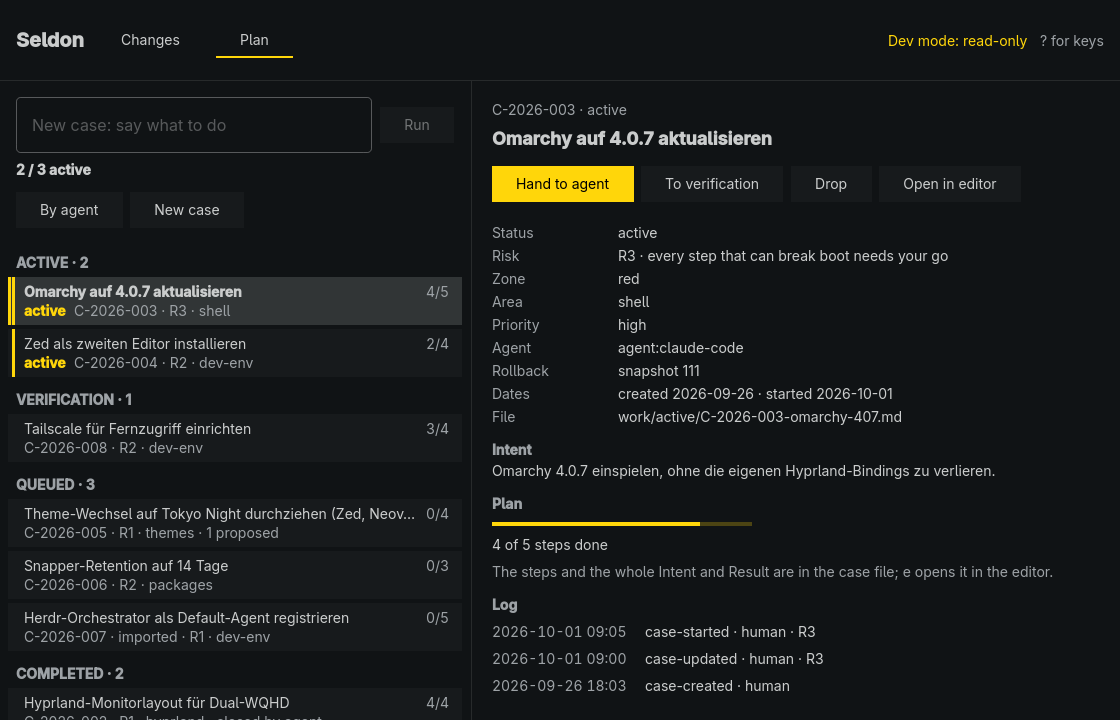
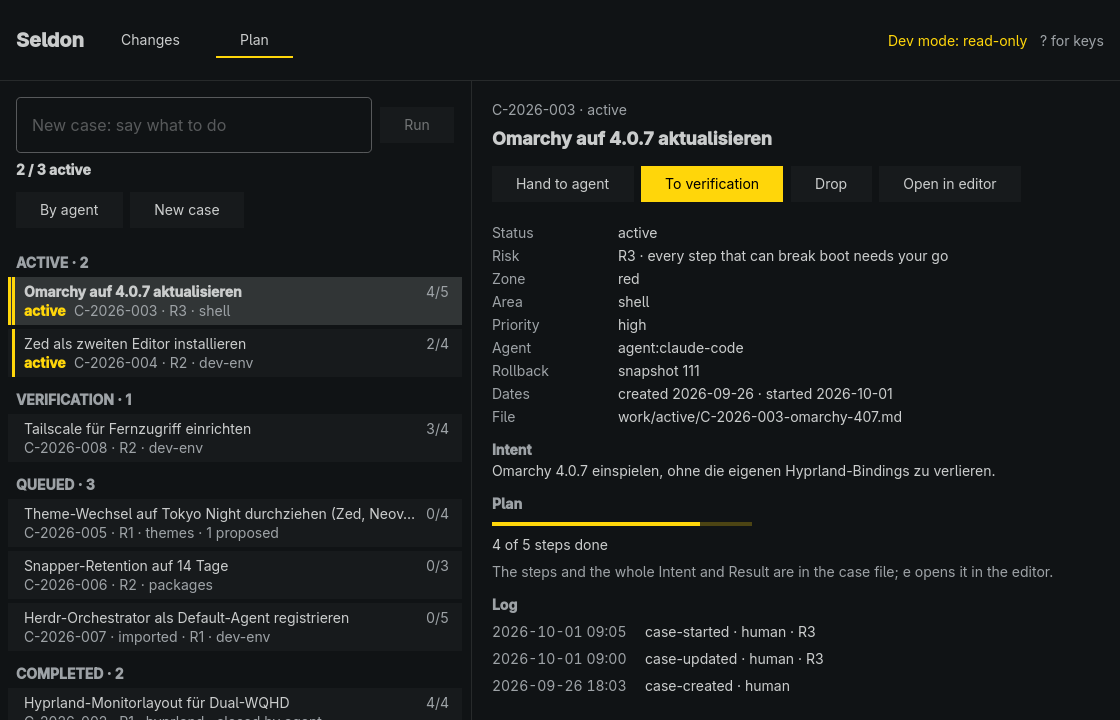
app: tests keep the fields' focus through a refusal; README and handover for review 1 (WP-232)

Changed region(s): [[0.4375, 0.2139, 0.7188, 0.3056]]

diff --git a/app/tests/seldon-desk_tests.cpp b/app/tests/seldon-desk_tests.cpp
@@ -1509,6 +1509,11 @@ private slots:
         QCOMPARE(acts(dir), QStringList{"plan new --zone yellow --risk R1 --json -- Snapshots weekly"});
         QVERIFY(plan->property("formOpen").toBool());
         QCOMPARE(find(window.get(), "newCaseTitle")->property("text").toString(), QString("Snapshots weekly"));
+        // The field kept the keys through the call: typing on goes on into it.
+        QVERIFY(area->hasActiveFocus());
+        QTest::keyClick(window->window, 'z');
+        QCOMPARE(area->property("text").toString(), QString("z"));
+        QTest::keyClick(window->window, Qt::Key_Backspace);
 
         QTest::keyClick(window->window, Qt::Key_Escape);
         QTest::keyClick(window->window, Qt::Key_Escape);
@@ -1521,6 +1526,7 @@ private slots:
         QTest::keyClick(window->window, Qt::Key_Return);
         QTRY_COMPARE(find(window.get(), "planResult")->property("text").toString(), QString("no default agent"));
         QCOMPARE(find(window.get(), "intentField")->property("text").toString(), QString("Fix it"));
+        QVERIFY(find(window.get(), "intentField")->hasActiveFocus());
         // The form's draft is still there.
         QTest::keyClick(window->window, Qt::Key_Escape);
         QTest::keyClick(window->window, 'n');

diff --git a/work/active/WP-232/HANDOVER.md b/work/active/WP-232/HANDOVER.md
@@ -68,16 +68,65 @@ Branch `wp/232-app-plan` (off `app`). Not pushed.
   header now has the tabs): fixture, dev mode, default accent, empty theme.
 - `app/README.md`: the Plan view, a keys table per view, the screenshot.
 
+## Review round 1 (SEND BACK) — what changed
+
+1. **B1, a held key never confirms** (SPEC-PLUGIN §5.3, WP-173), in both
+   views since `Main.qml` is shared: every Shortcut that presses has
+   `autoRepeat: false` (Return/Enter, Space, `a x r e i n b`, `/`, `1`,
+   `2`, `?`, `Q`); only moving keys (↑/↓, j/k, f/F) repeat. No field acts on
+   `accepted`: the New case title and area, the sentence field and
+   Changes' reason field press from `Keys.onReturnPressed`/`onEnterPressed`
+   only when `!event.isAutoRepeat` (the search field moves focus the same
+   way). Tests: the reviewer's `reviewAutoRepeatDrop` and
+   `reviewAutoRepeatEnterCreate`, plus `planHeldKeyNeverConfirms` (Space,
+   `r`, Return in the sentence) and `changesHeldKeyNeverConfirms` (Return
+   held on the case picker and in the reason field; a second press of its
+   own still runs).
+2. **B2a, no case keys behind the form.** While the New case form is open,
+   `a x r e` do nothing (`PlanView.key`). Test `reviewKeysBehindTheForm`.
+3. **B2b, no act under an ask.** `win.asking` (the `?` overlay or the quit
+   question) turns off Enter, Space and every view key. Tests
+   `reviewEnterUnderHelp`, `noActWhileTheQuitAskShows`.
+4. **N1, an arriving index never closes a form.** A first index with cases
+   selects its first case without touching `formOpen`; a form that closes
+   gives its keys back to the list (no hidden field keeps typing). The
+   Plan fields are read-only, not disabled, while a call runs, so they keep
+   the keys through it. Tests `reviewFormClosesOnFirstIndex`,
+   `reviewFocusLostAfterRefusal`, and `refusalsKeepTheTitle` now checks
+   that the area field and the sentence field keep the focus after a
+   refusal.
+5. **N2, the missing tests.** `reviewViewSwitchDisarms` (Plan, outside dev
+   mode) and `changesViewSwitchDisarms` (Changes: an armed link is
+   disarmed by a view change, and the next press arms again, nothing
+   runs); `engineErrorsArePlainText` feeds engine refusals with `<font …>`
+   into `planResult` and `newCaseError` and checks both are plain.
+6. **N4, the filled button is the act Enter takes** (`modelData.enter`):
+   To verification on an active case, never Hand to agent;
+   `startVerifyComplete` checks it. `docs/images/app-plan.png` refreshed.
+
+Decisions taken from the orchestrator: the wider arming stays (Reopen, New
+case and Run press twice); `--again` stays terminal-only (WP-231's list).
+
+Mutants on the round-1 code, each reverted: letters repeating →
+`reviewAutoRepeatDrop` fails; Enter without `asking` →
+`reviewEnterUnderHelp` and `noActWhileTheQuitAskShows` fail; no form guard
+→ `reviewKeysBehindTheForm` fails; the reason field pressing on a repeat →
+`changesHeldKeyNeverConfirms` fails; the filled button by `primary` →
+`startVerifyComplete` fails. Survived: `enabled: !pending` in place of
+`readOnly: pending` on the Plan fields — equivalent on Qt 6.12, where a
+field disabled for the call keeps its active focus; `readOnly` stays as
+the form that does not depend on that.
+
 ## How it was verified
 
 | Check | Where | Result |
 |---|---|---|
-| `flock /tmp/seldon-check.lock app/bin/build`, clean rebuild (`app/build` removed first), Qt 6.12.0, `-Wall -Wextra` | headless (dev host; no window) | passed, 0 warnings |
-| `flock /tmp/seldon-check.lock app/bin/test`: 64 Qt Test cases (44 before + 20), offscreen, own `HOME`, private `XDG_RUNTIME_DIR` 0700, temp dirs on disk, a fake engine that records argv | headless | 64 passed |
+| `flock /tmp/seldon-check.lock app/bin/build`, clean rebuild (`app/build` removed first), Qt 6.12.0, `-Wall -Wextra`, round 1 | headless (dev host; no window) | passed, 0 warnings |
+| `flock /tmp/seldon-check.lock app/bin/test`, round 1: 76 Qt Test cases (44 of WP-228 + 20 of round 0 + the reviewer's 7 `review*` + 5 new), offscreen, own `HOME`, private `XDG_RUNTIME_DIR` 0700, temp dirs on disk, a fake engine that records argv | headless | 76 passed |
 | The new cases: `sessionsRunBesideTheQueue`, `germanCoversThePlanWords`, `planShowsTheFixture`, `planInGerman`, `viewSwitchAndKeys`, `startVerifyComplete` (exact argv of start, verify, done), `armedCaseFollowsTheIndex` (a case above leaves: still armed, runs the armed case; the armed case moves on: disarmed, nothing ran; another selection disarms), `dropAndHandToAgent` (`x x`; `a` then Enter arms To verification, never the agent; `a a`), `focusTheWorkingAgent`, `byAgentAndReopen`, `openInEditor`, `newCaseFromOneSentence`, `newCaseByHand` (exact `plan new` argv from the keys), `refusalsKeepTheTitle` (blank title, bad area, exit 4, agent refusal), `emptyListAndSearch`, `importedCaseStartIsOff`, `answerMatchesTheCall`, `devModePlanWritesNothing`, `planRichText`, `planGeometry` (720×480 in German: header parts inside the list column without overlap, the bar inside the detail, the form's choices inside the form, the `?` overlay's last key reachable); `allowsOnlyTheContractForms` extended (12 allowed, 23 refused forms) | headless | passed |
 | Every window test fails on any QML warning (the message handler), in `en` and `de` (`planInGerman`, `planGeometry`) | headless | none |
 | Mutants on the new code, each reverted: no `built` watch → `armedCaseFollowsTheIndex` fails; answer not matched to its argv → `answerMatchesTheCall` fails; a refused New case closes and resets → `refusalsKeepTheTitle` fails; Enter takes the first act (the agent) → `dropAndHandToAgent` fails; the imported-case guard removed → `importedCaseStartIsOff` fails; a row title not plain → `planRichText` fails; the list column filling (Qt's layout default) → `planGeometry` fails. Survived: resetting the form even when the title changed meanwhile — equivalent, the fields are disabled while the call runs | headless | 7 killed, 1 equivalent |
-| `QT_FORCE_STDERR_LOGGING=1` offscreen runs of `app/build/seldon-desk` (`env -i`, `PATH=/usr/bin` without `seldon`, private `HOME` and `XDG_RUNTIME_DIR` 0700 under `app/build/smoke/`, removed after): fixture dev mode `en`, fixture dev mode `de`, no index and no engine | headless | no output on stderr in any run. These start on Changes; Plan is loaded beside it, and shown it is covered by the window tests above |
+| `QT_FORCE_STDERR_LOGGING=1` offscreen runs of `app/build/seldon-desk`, again in round 1 (`env -i`, `PATH=/usr/bin` without `seldon`, private `HOME` and `XDG_RUNTIME_DIR` 0700 under `app/build/smoke/`, removed after): fixture dev mode `en`, fixture dev mode `de`, no index and no engine | headless | no output on stderr in any run. These start on Changes; Plan is loaded beside it, and shown it is covered by the window tests above |
 | `docs/images/app-plan.png`, `app-changes.png` from the test harness | fixture | — |
 | No symlink under `app/`, no `qs.*` import, no hex colour in `app/src`, `app/bin`, the `.pro` outside `theme.cpp`'s fallbacks | fixture (grep, find) | passed |
 | Shell scripts | not run | none added or changed (`bin/build`, `bin/test` untouched; the fake engine lives in the C++ test), so no shellcheck run |
@@ -90,7 +139,8 @@ were never read or written; the real engine was never started.
 
 ## What was not done / open points
 
-1. **`--again` (APP-PARITY 8g).** The row names `agent start`, `agent
+1. **`--again` (APP-PARITY 8g)** — decided in round 1: terminal-only for
+   now, on WP-231's list. Round 0's note: The row names `agent start`, `agent
    focus`, `--again`. `agent start <id> --again --json` is not in
    CONTRACT.md's command table, and the desk never ran it (it shows Focus
    instead). The app does the same: Focus while an agent works; the
@@ -99,7 +149,8 @@ were never read or written; the real engine was never started.
    case from the window needs a CONTRACT.md row and a fixture first. —
    Question for the orchestrator: add the row (and a key, e.g. `A`), or
    record 8g's `--again` as "terminal only"?
-2. **Arming is wider than the desk's.** The WP says arm-twice for acts that
+2. **Arming is wider than the desk's** — decided in round 1: it stays.
+   Round 0's note: The WP says arm-twice for acts that
    write, so Reopen, New case and Run arm too (the desk ran Reopen at once
    and New case / Run on one Enter). — Confirm, or name the acts that
    should run on one press.

diff --git a/app/README.md b/app/README.md
@@ -84,7 +84,11 @@ Plan:
 | b | By agent |
 | Esc | Leave the field, disarm, close the form, clear the search |
 
-Enter never starts an agent; only `a` or a click does.
+Enter never starts an agent; only `a` or a click does. The filled button
+on a case is the act Enter takes. A held key acts once: its repeat never
+confirms what its first press armed. While the New case form is open,
+`a x r e` do nothing (the case is behind the form); while the key overlay
+or the quit question shows, no key acts.
 
 ## States
 
